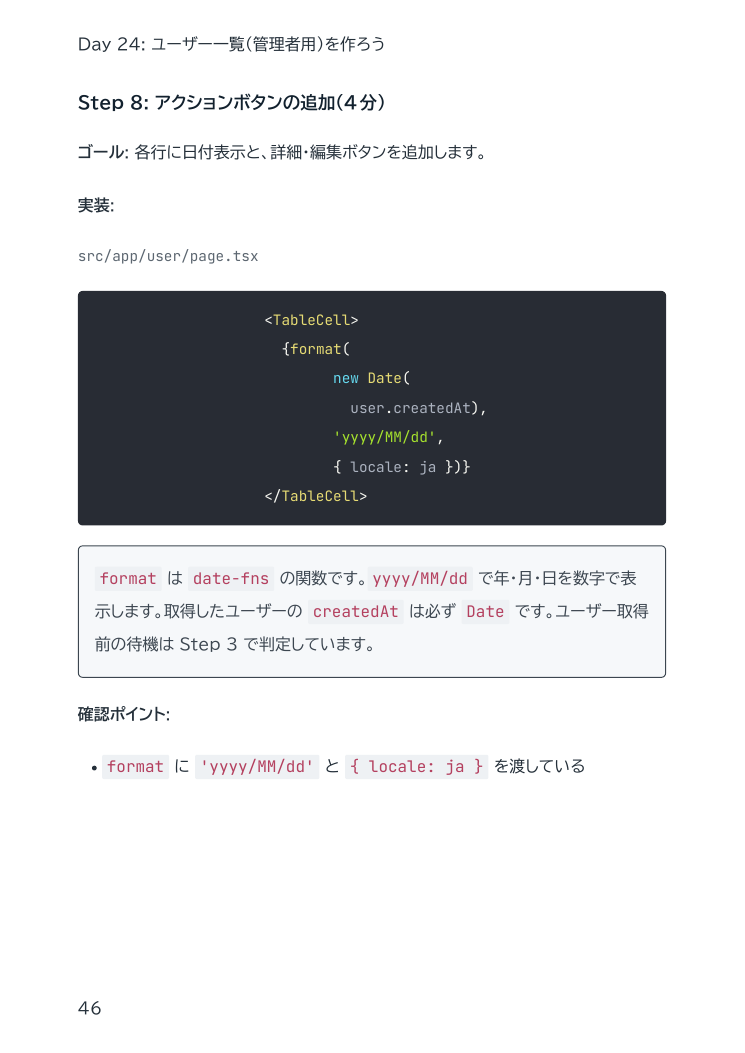
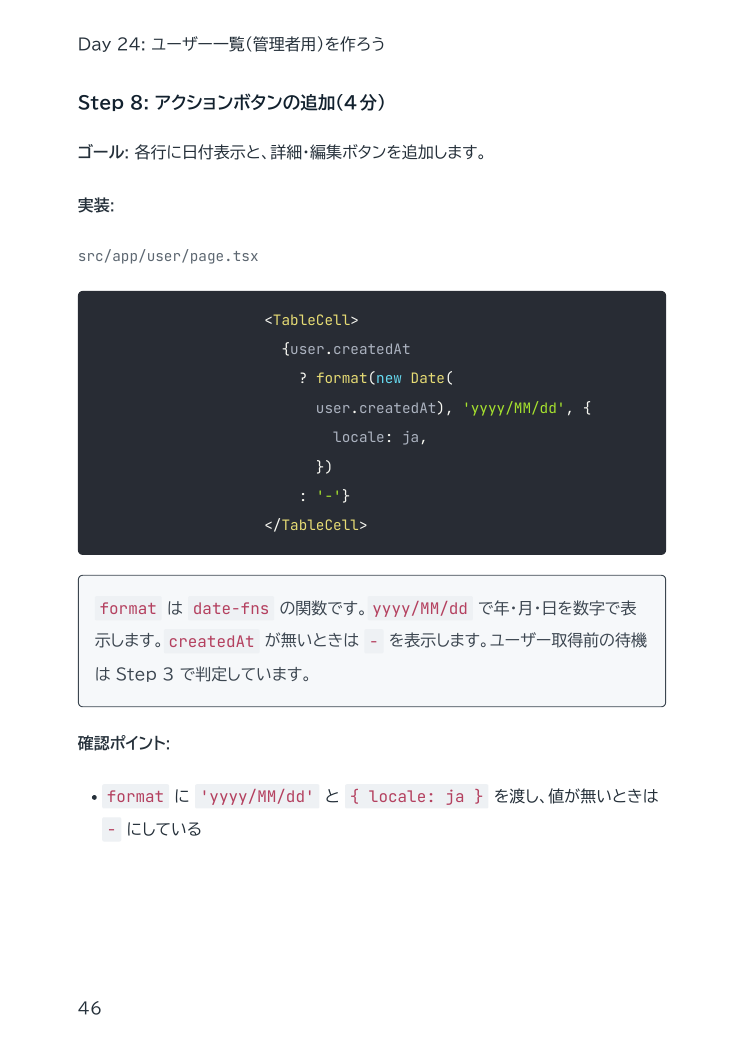
docs(evidence): refresh M09 PDF pages for head 8eeac081

diff --git a/m09/EVIDENCE.md b/m09/EVIDENCE.md
@@ -1,17 +1,20 @@
 # M09 curriculum evidence (PR #667)
 
-- Evidence taken from PR head: `12a396cb8f665c7c9f7487505fdea8e0b13a19cd` (branch m09/curriculum-20261015)
+- Evidence taken from PR head: `8eeac081190257e837f2279e065427040ef8284e` (branch m09/curriculum-20261015)
 - Compared against main: `e69374e796664e308a3963cf0d2c0e3dba7556ac`
 - PDF pages: built locally on the Mac mini with `scripts/pdf-book/build_pdf_book.py` (same builder and `PDF_BOOK_LINK_MAP` as the 教材PDF検査 workflow, which uploads no PDF artifact). Rendered with `pdftoppm -r 90`.
 - Screenshots m09/day12/14/20_side.png were added earlier.
 
-| Day | Page | Before (main e69374e7) | After (head 12a396cb) |
+| Day | Page | Before (main e69374e7) | After (head 8eeac081) |
 |---|---|---|---|
 | day24 | Mermaid: 全体図 | [p3](https://github.com/kouiso/task-app/blob/evidence/m09-curriculum-20261015/m09/pdf/day24_before_p3.png) | [p3](https://github.com/kouiso/task-app/blob/evidence/m09-curriculum-20261015/m09/pdf/day24_after_p3.png) |
 | day24 | ユーザー一覧 (createdAt guard) | [p46](https://github.com/kouiso/task-app/blob/evidence/m09-curriculum-20261015/m09/pdf/day24_before_p46.png) | [p46](https://github.com/kouiso/task-app/blob/evidence/m09-curriculum-20261015/m09/pdf/day24_after_p46.png) |
 | day26 | Mermaid: デバッグの流れ | [p6](https://github.com/kouiso/task-app/blob/evidence/m09-curriculum-20261015/m09/pdf/day26_before_p6.png) | [p6](https://github.com/kouiso/task-app/blob/evidence/m09-curriculum-20261015/m09/pdf/day26_after_p6.png) |
 | day26 | 完成版 dashboard/page.tsx | [p87](https://github.com/kouiso/task-app/blob/evidence/m09-curriculum-20261015/m09/pdf/day26_before_p87.png) | [p89](https://github.com/kouiso/task-app/blob/evidence/m09-curriculum-20261015/m09/pdf/day26_after_p89.png) |
 | day28 | Mermaid: 一括操作の全体像 | [p6](https://github.com/kouiso/task-app/blob/evidence/m09-curriculum-20261015/m09/pdf/day28_before_p6.png) | [p6](https://github.com/kouiso/task-app/blob/evidence/m09-curriculum-20261015/m09/pdf/day28_after_p6.png) |
-| day28 | 完成コード: handleBulkUpdateStatus | [p102](https://github.com/kouiso/task-app/blob/evidence/m09-curriculum-20261015/m09/pdf/day28_before_p102.png) | [p112](https://github.com/kouiso/task-app/blob/evidence/m09-curriculum-20261015/m09/pdf/day28_after_p112.png) |
+| day28 | 完成コード: handleBulkUpdateStatus | [p102](https://github.com/kouiso/task-app/blob/evidence/m09-curriculum-20261015/m09/pdf/day28_before_p102.png) | [p109](https://github.com/kouiso/task-app/blob/evidence/m09-curriculum-20261015/m09/pdf/day28_after_p109.png) |
 | day29 | Mermaid: 認証・認可の流れ | [p6](https://github.com/kouiso/task-app/blob/evidence/m09-curriculum-20261015/m09/pdf/day29_before_p6.png) | [p6](https://github.com/kouiso/task-app/blob/evidence/m09-curriculum-20261015/m09/pdf/day29_after_p6.png) |
 | day29 | user-detail-client (戻るボタン) | [p45](https://github.com/kouiso/task-app/blob/evidence/m09-curriculum-20261015/m09/pdf/day29_before_p45.png) | [p46](https://github.com/kouiso/task-app/blob/evidence/m09-curriculum-20261015/m09/pdf/day29_after_p46.png) |
+| day28 | Step 8: handleBulkUpdateStatus (Step section) | [p59](https://github.com/kouiso/task-app/blob/evidence/m09-curriculum-20261015/m09/pdf/day28_before_p59.png) | [p64](https://github.com/kouiso/task-app/blob/evidence/m09-curriculum-20261015/m09/pdf/day28_after_p64.png) |
+
+After pages for day24/28/29 were rebuilt from head 8eeac081; day26 pages are from 12a396cb (day26 is unchanged since then).
